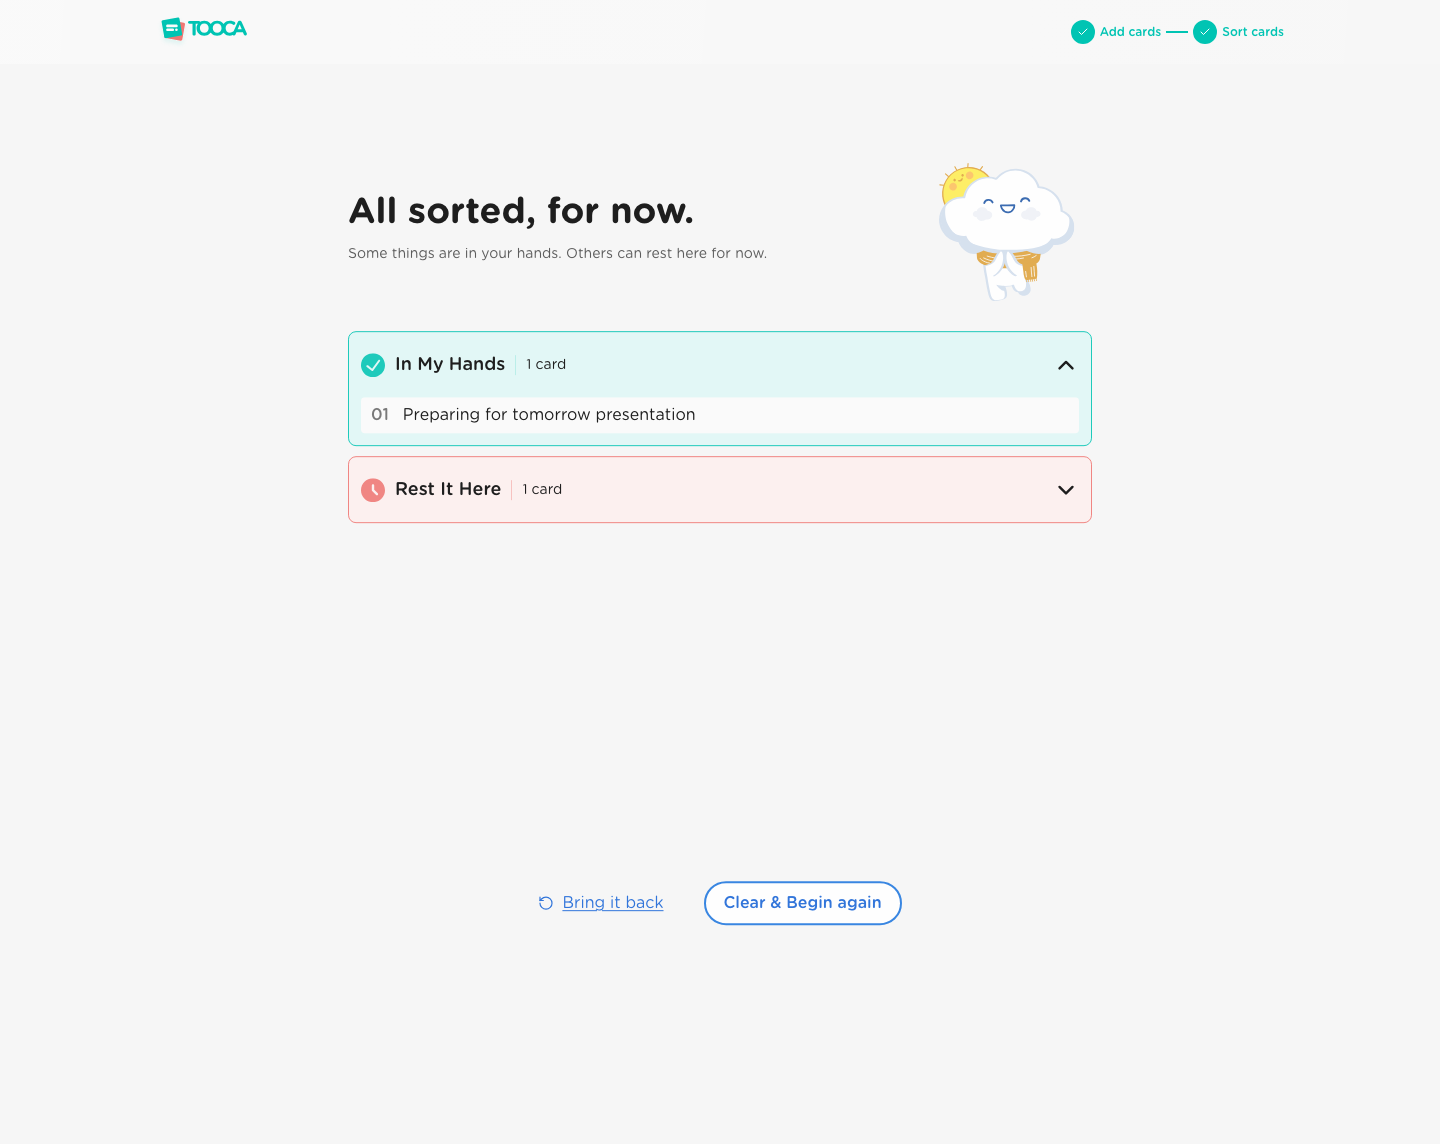
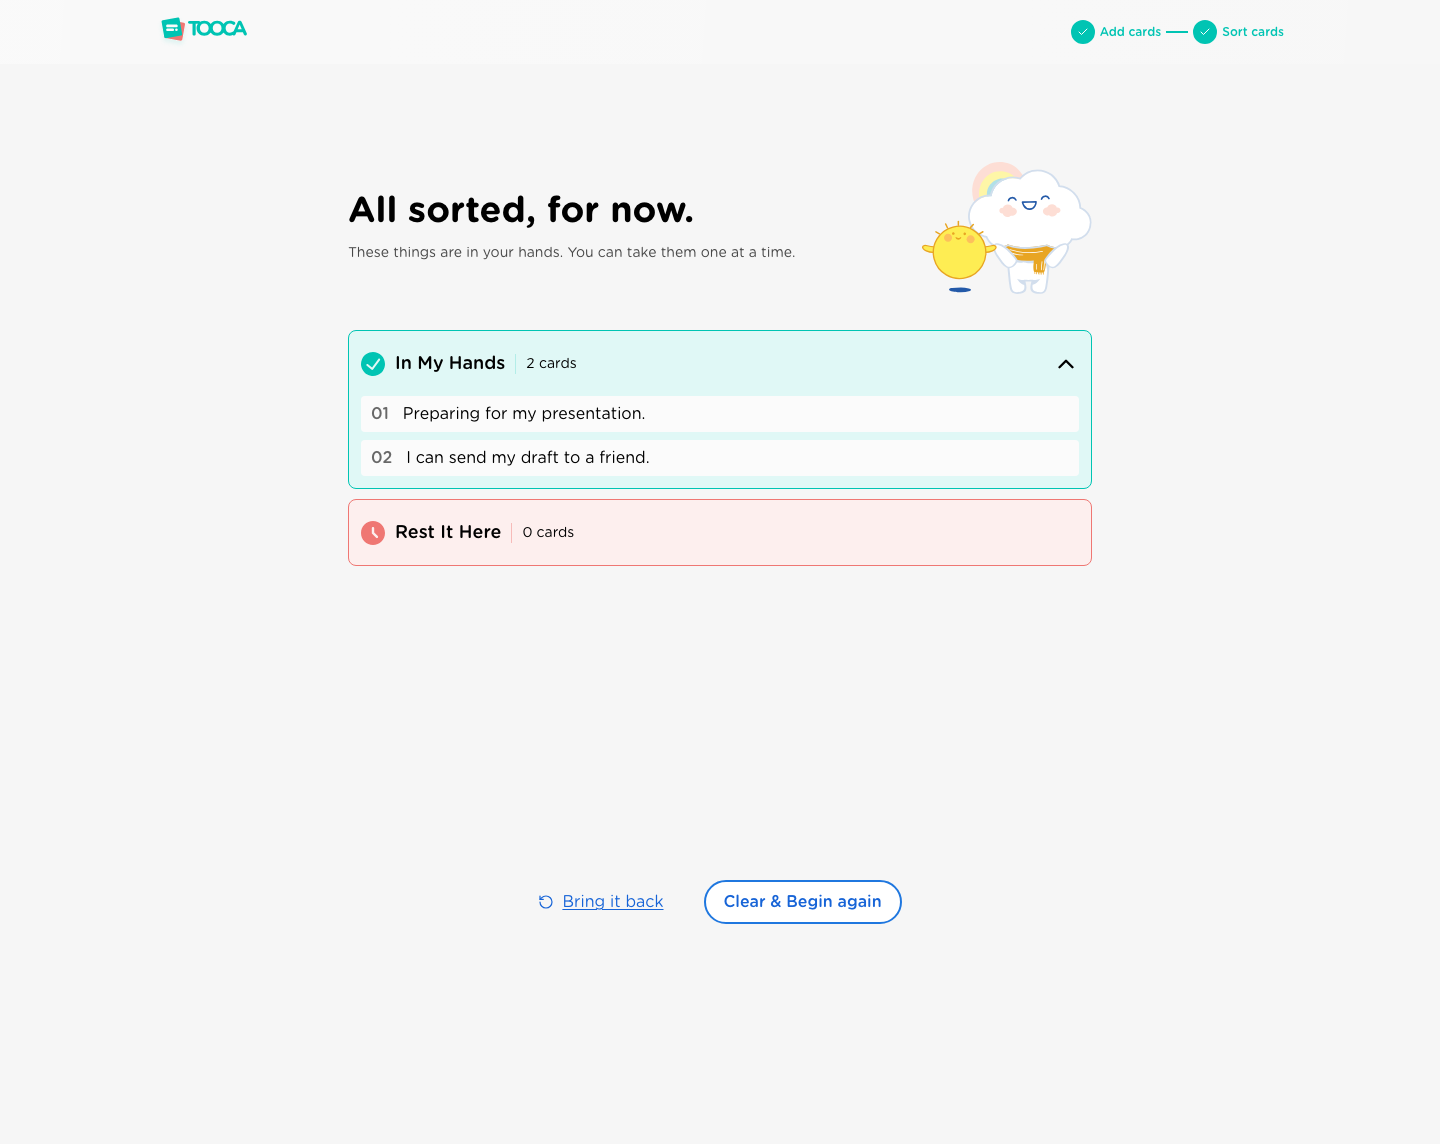
Polish two-minute reflection experience

diff --git a/src/features/reflection/ReflectionScreen.tsx b/src/features/reflection/ReflectionScreen.tsx
@@ -23,28 +23,35 @@ function SummaryGroup({ group, title, thoughts, open, onToggle }: SummaryGroupPr
   const headingId = `reflection-${group}-heading`
   const panelId = `reflection-${group}-panel`
   const countLabel = `${thoughts.length} ${thoughts.length === 1 ? 'card' : 'cards'}`
+  const hasCards = thoughts.length > 0
+
+  const summary = (
+    <>
+      <span className="reflection-group__icon" aria-hidden="true">
+        <img src={group === 'hands' ? reflectionCheck : reflectionClock} alt="" />
+      </span>
+      <span className="reflection-group__title">{title}</span>
+      <span className="reflection-group__count">{countLabel}</span>
+    </>
+  )
 
   return (
     <div className={`reflection-group reflection-group--${group}`}>
-      <button
-        id={headingId}
-        type="button"
-        className="reflection-group__toggle"
-        aria-expanded={open}
-        aria-controls={panelId}
-        aria-label={`${title}, ${countLabel}`}
-        onClick={onToggle}
-      >
-        <span className="reflection-group__icon" aria-hidden="true">
-          <img src={group === 'hands' ? reflectionCheck : reflectionClock} alt="" />
-        </span>
-        <span className="reflection-group__title">{title}</span>
-        <span className="reflection-group__count">{countLabel}</span>
-        <ChevronDown className={`reflection-group__chevron ${open ? 'is-open' : ''}`} size={26} strokeWidth={2.2} aria-hidden="true" />
-      </button>
-
-      <div id={panelId} role="region" aria-labelledby={headingId} className="reflection-group__panel" hidden={!open}>
-        {thoughts.length > 0 ? (
+      {hasCards ? (
+        <>
+          <button
+            id={headingId}
+            type="button"
+            className="reflection-group__toggle"
+            aria-expanded={open}
+            aria-controls={panelId}
+            aria-label={`${title}, ${countLabel}`}
+            onClick={onToggle}
+          >
+            {summary}
+            <ChevronDown className={`reflection-group__chevron ${open ? 'is-open' : ''}`} size={26} strokeWidth={2.2} aria-hidden="true" />
+          </button>
+          <div id={panelId} role="region" aria-labelledby={headingId} className="reflection-group__panel" hidden={!open}>
           <ol className="reflection-group__list">
             {thoughts.map((thought, index) => (
               <li key={thought.id} className="reflection-group__card">
@@ -53,10 +60,11 @@ function SummaryGroup({ group, title, thoughts, open, onToggle }: SummaryGroupPr
               </li>
             ))}
           </ol>
-        ) : (
-          <p className="reflection-group__empty">No cards here for now.</p>
-        )}
-      </div>
+          </div>
+        </>
+      ) : (
+        <div className="reflection-group__summary">{summary}</div>
+      )}
     </div>
   )
 }

diff --git a/src/features/reflection/ReflectionScreen.test.tsx b/src/features/reflection/ReflectionScreen.test.tsx
@@ -40,6 +40,22 @@ describe('ReflectionScreen', () => {
     expect(hands).toHaveAttribute('aria-expanded', 'true')
   })
 
+  it('shows an empty category as a static summary without an expand control', () => {
+    useSessionStore.setState({
+      thoughts: [
+        { id: 'first', text: 'Job interview tomorrow.', category: 'in-my-hands' },
+      ],
+      history: [
+        { thoughtId: 'first', previousCategory: null, nextCategory: 'in-my-hands' },
+      ],
+    })
+    render(<ReflectionScreen />)
+
+    expect(screen.getByText('Rest It Here')).toBeVisible()
+    expect(screen.getByText('0 cards')).toBeVisible()
+    expect(screen.queryByRole('button', { name: 'Rest It Here, 0 cards' })).not.toBeInTheDocument()
+  })
+
   it('returns the last decision to sorting without losing earlier choices', async () => {
     const user = userEvent.setup()
     render(<ReflectionScreen />)

diff --git a/src/features/reflection/reflection.css b/src/features/reflection/reflection.css
@@ -94,6 +94,15 @@
   cursor: pointer;
 }
 
+.reflection-group__summary {
+  display: flex;
+  align-items: center;
+  width: 100%;
+  min-height: 65px;
+  padding: 12px;
+  color: var(--color-gray-1000);
+}
+
 .reflection-group__icon {
   display: inline-flex;
   align-items: center;
@@ -173,16 +182,6 @@
   color: var(--color-gray-700);
   font-size: 16px;
   font-weight: 350;
-}
-
-.reflection-group__empty {
-  margin: 0 12px 12px;
-  padding: 8px 10px;
-  border-radius: var(--radius-xs);
-  background: var(--color-gray-50);
-  color: var(--color-gray-700);
-  font-size: 14px;
-  line-height: 20px;
 }
 
 .reflection-screen__actions {

diff --git a/design-qa.md b/design-qa.md
@@ -10,7 +10,7 @@ This report records visual and interaction review evidence. The current capture 
 | :--- | :--- | :--- |
 | Add cards | Current desktop and mobile captures include the new logo | Broader historical layout comparisons are archived |
 | Sort cards | Current neutral, drag, next-card, and responsive captures were regenerated by the browser verification script | Supplied colors have insufficient contrast |
-| Reflection | Current desktop and mobile captures include the new logo | Broader historical layout comparisons are archived |
+| Reflection | Current desktop and mobile captures show the new logo and a 0-card category as a static summary | Broader historical layout comparisons are archived |
 | Design tokens | Shared color/radius generation and raw-value audit added | Layout and typography values have separate ownership |
 
 ## Visual evidence
@@ -19,7 +19,7 @@ This report records visual and interaction review evidence. The current capture 
 | :--- | :--- | :--- |
 | Add cards | [Current desktop](qa/step1-desktop-1440.png) | [Current mobile](qa/step1-mobile-402x812.png) |
 | Sort cards | [Neutral](qa/step2-full/01-idle.png) · [Right drag](qa/step2-full/02-drag-right.png) · [Left drag](qa/step2-full/03-drag-left.png) · [Next card](qa/step2-full/04-next-card.png) | [402 px](qa/step2-full/next-402x812.png) · [320 px](qa/step2-full/next-320x667.png) · [780 px](qa/step2-full/next-780x900.png) |
-| Reflection | [Current desktop](qa/step3/desktop-1440x1024.png) | [Current mobile](qa/step3/mobile-402x812.png) |
+| Reflection | [Current desktop · 0-card category](qa/step3/desktop-1440x1024.png) | [Current mobile · 0-card category](qa/step3/mobile-402x812.png) |
 
 The original design references were supplied outside this repository in the assignment's Setup, Categorize, and Reflection folders. Earlier comparison images are retained locally for process history but are intentionally not linked above because they predate the current identity. Current desktop captures use 1440 × 1024; mobile captures use 402 × 812.
 
@@ -39,7 +39,7 @@ Recorded browser checks covered both directions, cancelled drag, next card, undo
 
 ### Reflection
 
-The recorded review covered accordion layout, category counts, original card order, empty groups, undo, reset, and refresh. Desktop, tablet, and mobile captures were compared; a 320 × 667 viewport with 20 cards was also checked for overflow and action overlap.
+The recorded review covered accordion layout, category counts, original card order, empty groups, undo, reset, and refresh. A 0-card category remains visible as a static summary without a chevron or expand control; the current desktop and mobile captures record this state. Desktop, tablet, and mobile captures were compared; a 320 × 667 viewport with 20 cards was also checked for overflow and action overlap.
 
 The current implementation uses `gray/100` for the page background and changes its description and mascot according to the category split: thanks for a mixed result, happy for all In My Hands, and hugging for all Rest It Here. Older screenshots should not be used as proof of those later changes.
 

diff --git a/docs/product.md b/docs/product.md
@@ -71,7 +71,7 @@ The interaction is intended to interrupt passive rumination by giving the user a
 | Sort cards on mobile | Choose a category by swipe or button | Mooca confirms the direction, then after 0.9 seconds returns to the neutral pose as the next card's text fades in; sorting controls stay unavailable during this feedback |
 | Sort cards | **Bring it back** | Restores the most recent decision as an unsorted card |
 | Sort cards | Sort the last card | Opens reflection automatically |
-| Reflection | Toggle a category | Expands or collapses that group independently |
+| Reflection | Toggle a category with cards | Expands or collapses that group independently; a 0-card category remains a static summary |
 | Reflection | **Bring it back** | Returns to sorting and undoes the latest decision |
 | Reflection | **Clear & Begin again** | Clears all cards and history; returns to Add cards |
 | Any phase | **Add cards** in the header | Returns to setup while retaining existing cards and categories |
@@ -87,7 +87,7 @@ The input accepts up to 150 characters and shows a character count. Whitespace-o
 | All cards are in your hands | These things are in your hands. You can take them one at a time. | Happy |
 | All cards rest here | These things can rest here for now. You don't have to figure everything out today. | Hugging |
 
-**In My Hands** starts expanded; **Rest It Here** starts collapsed. Each group shows its count, retains original entry order, and displays an empty-state message when needed.
+**In My Hands** starts expanded; **Rest It Here** starts collapsed. Each group shows its count and retains original entry order. A category with 0 cards is shown as a static summary without an expand control.
 
 ## Experience boundaries
 
